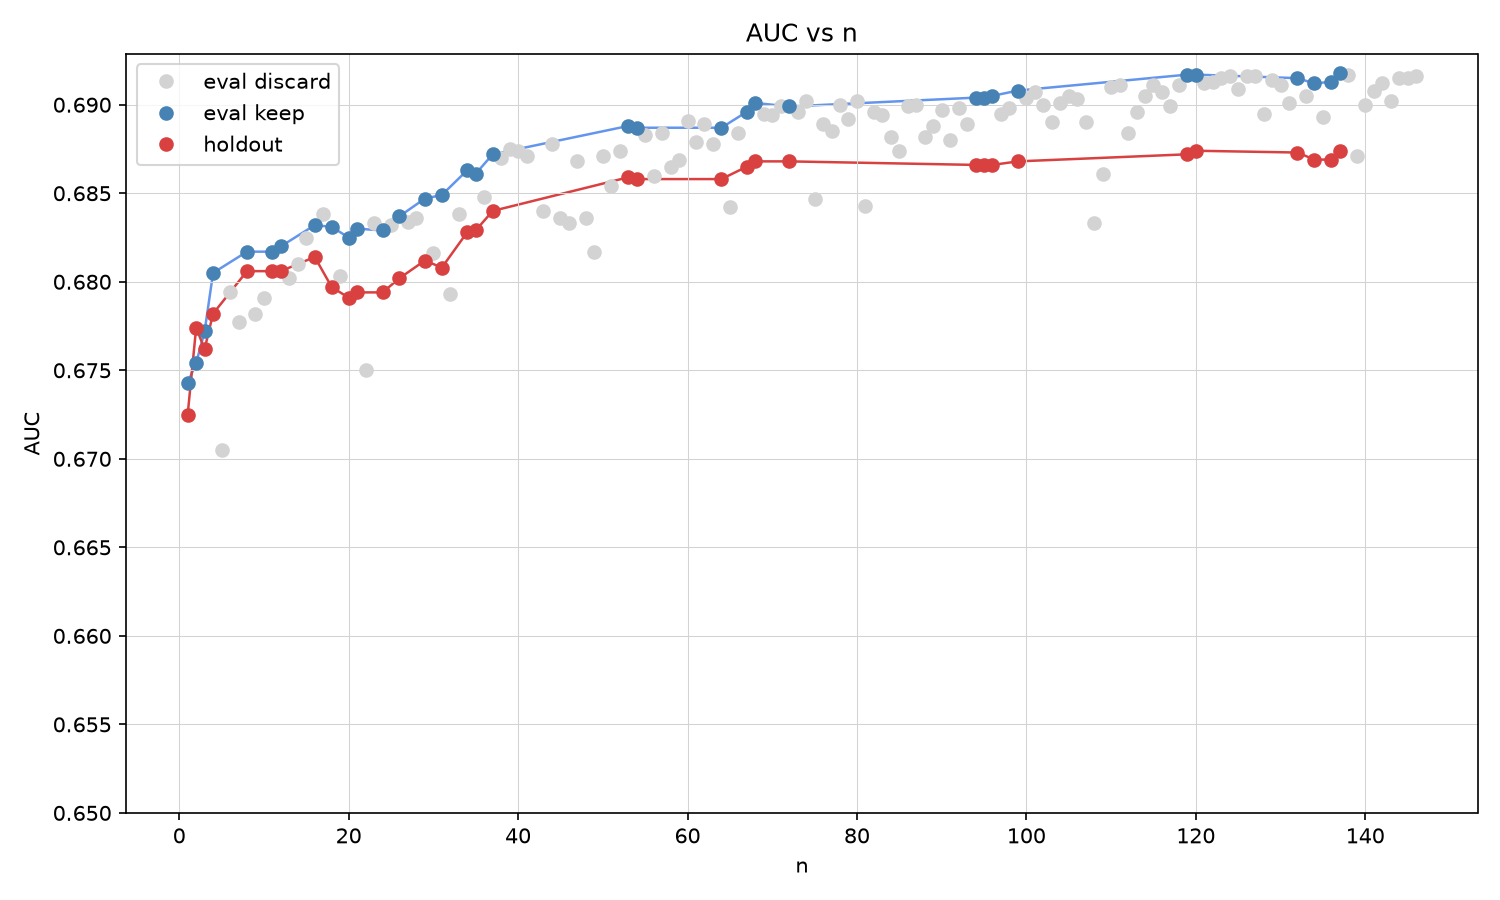
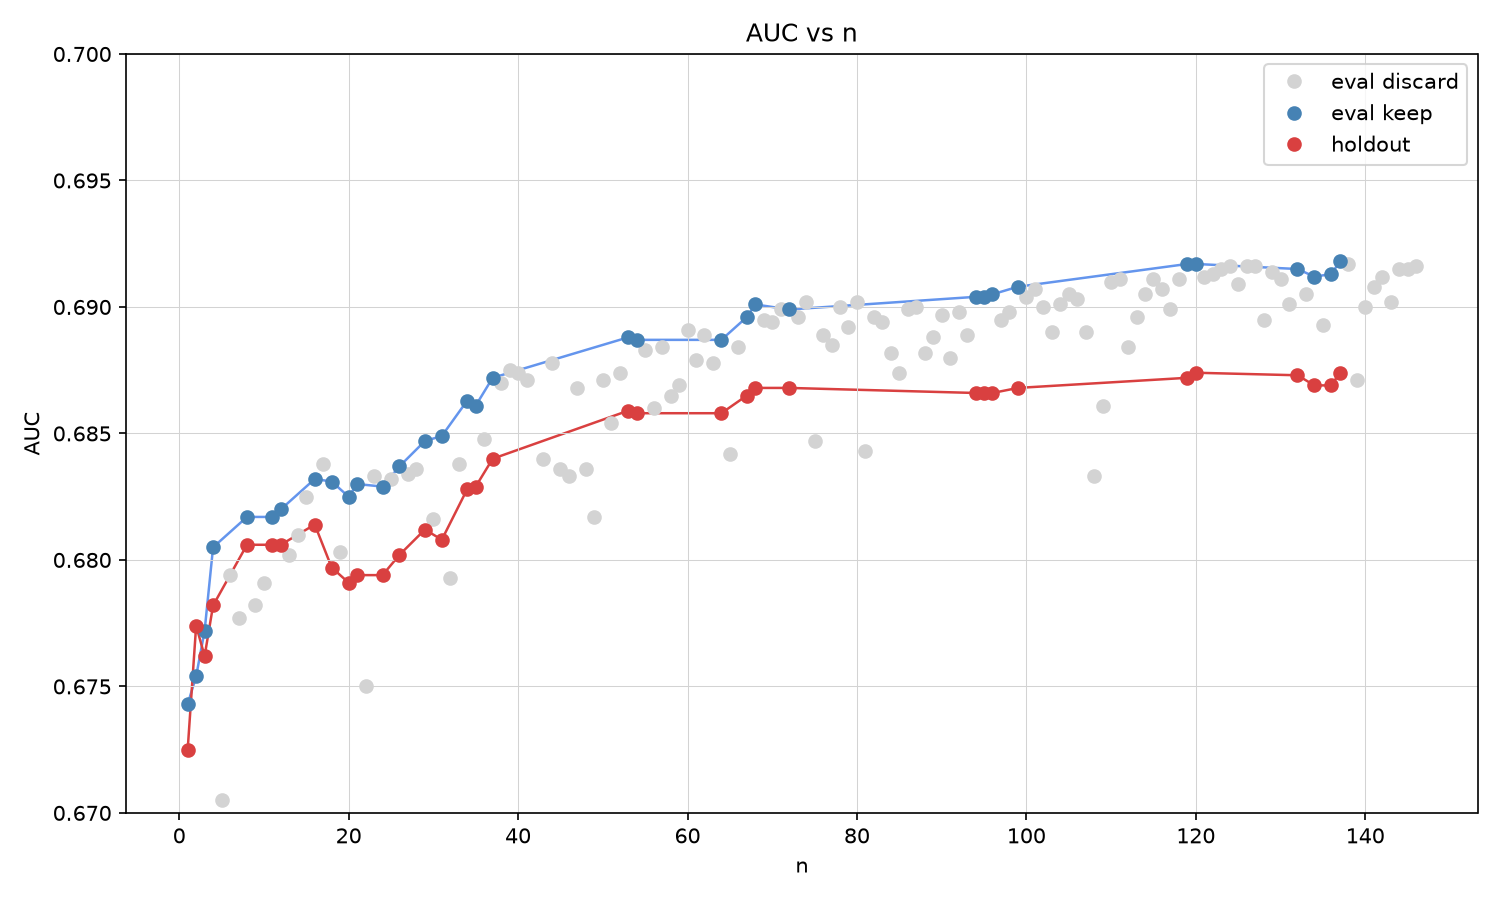
Plot: y-axis 0.67-0.70; redraw the test1 and test2 plots

diff --git a/human/plot_auc_history.py b/human/plot_auc_history.py
@@ -21,7 +21,7 @@ plt.plot(df.loc[keep, "n"], df.loc[keep, "holdout_auc"], color="#d94040", linewi
 plt.plot(df.loc[keep, "n"], df.loc[keep, "holdout_auc"], marker="o", color="#d94040", linestyle="none", label="holdout", zorder=2)
 plt.xlabel("n")
 plt.ylabel("AUC")
-plt.ylim(0.67, 0.69)
+plt.ylim(0.67, 0.70)
 plt.title("AUC vs n")
 plt.grid(True, color="lightgrey", linewidth=0.5)
 plt.legend()
